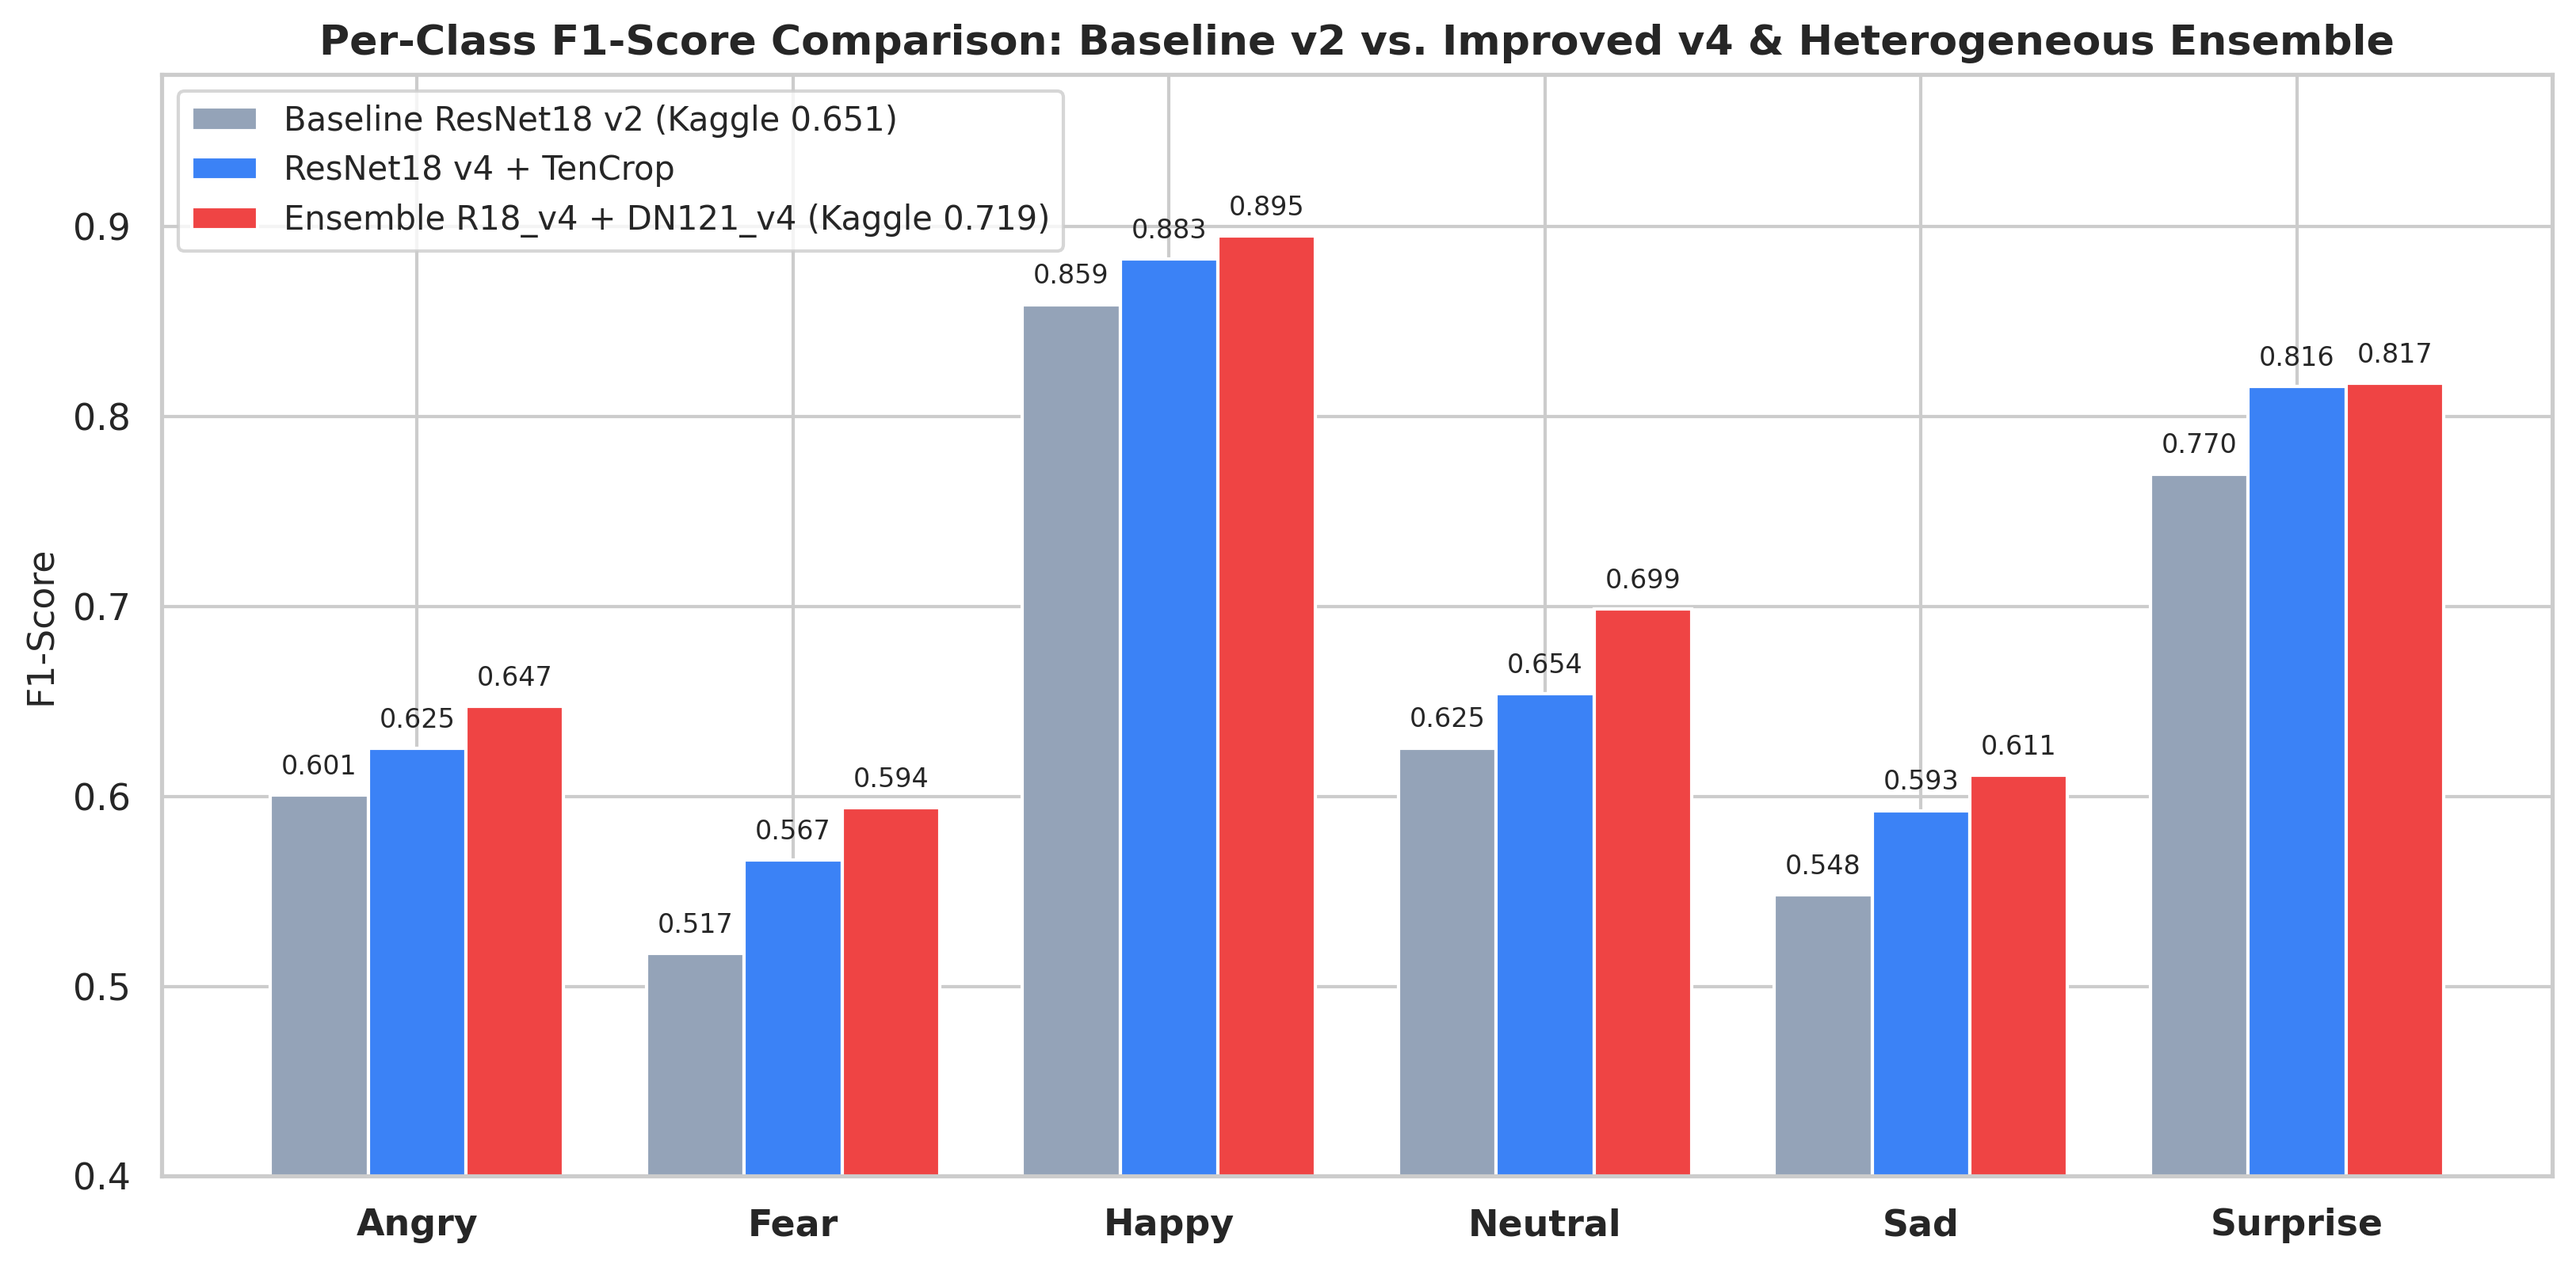
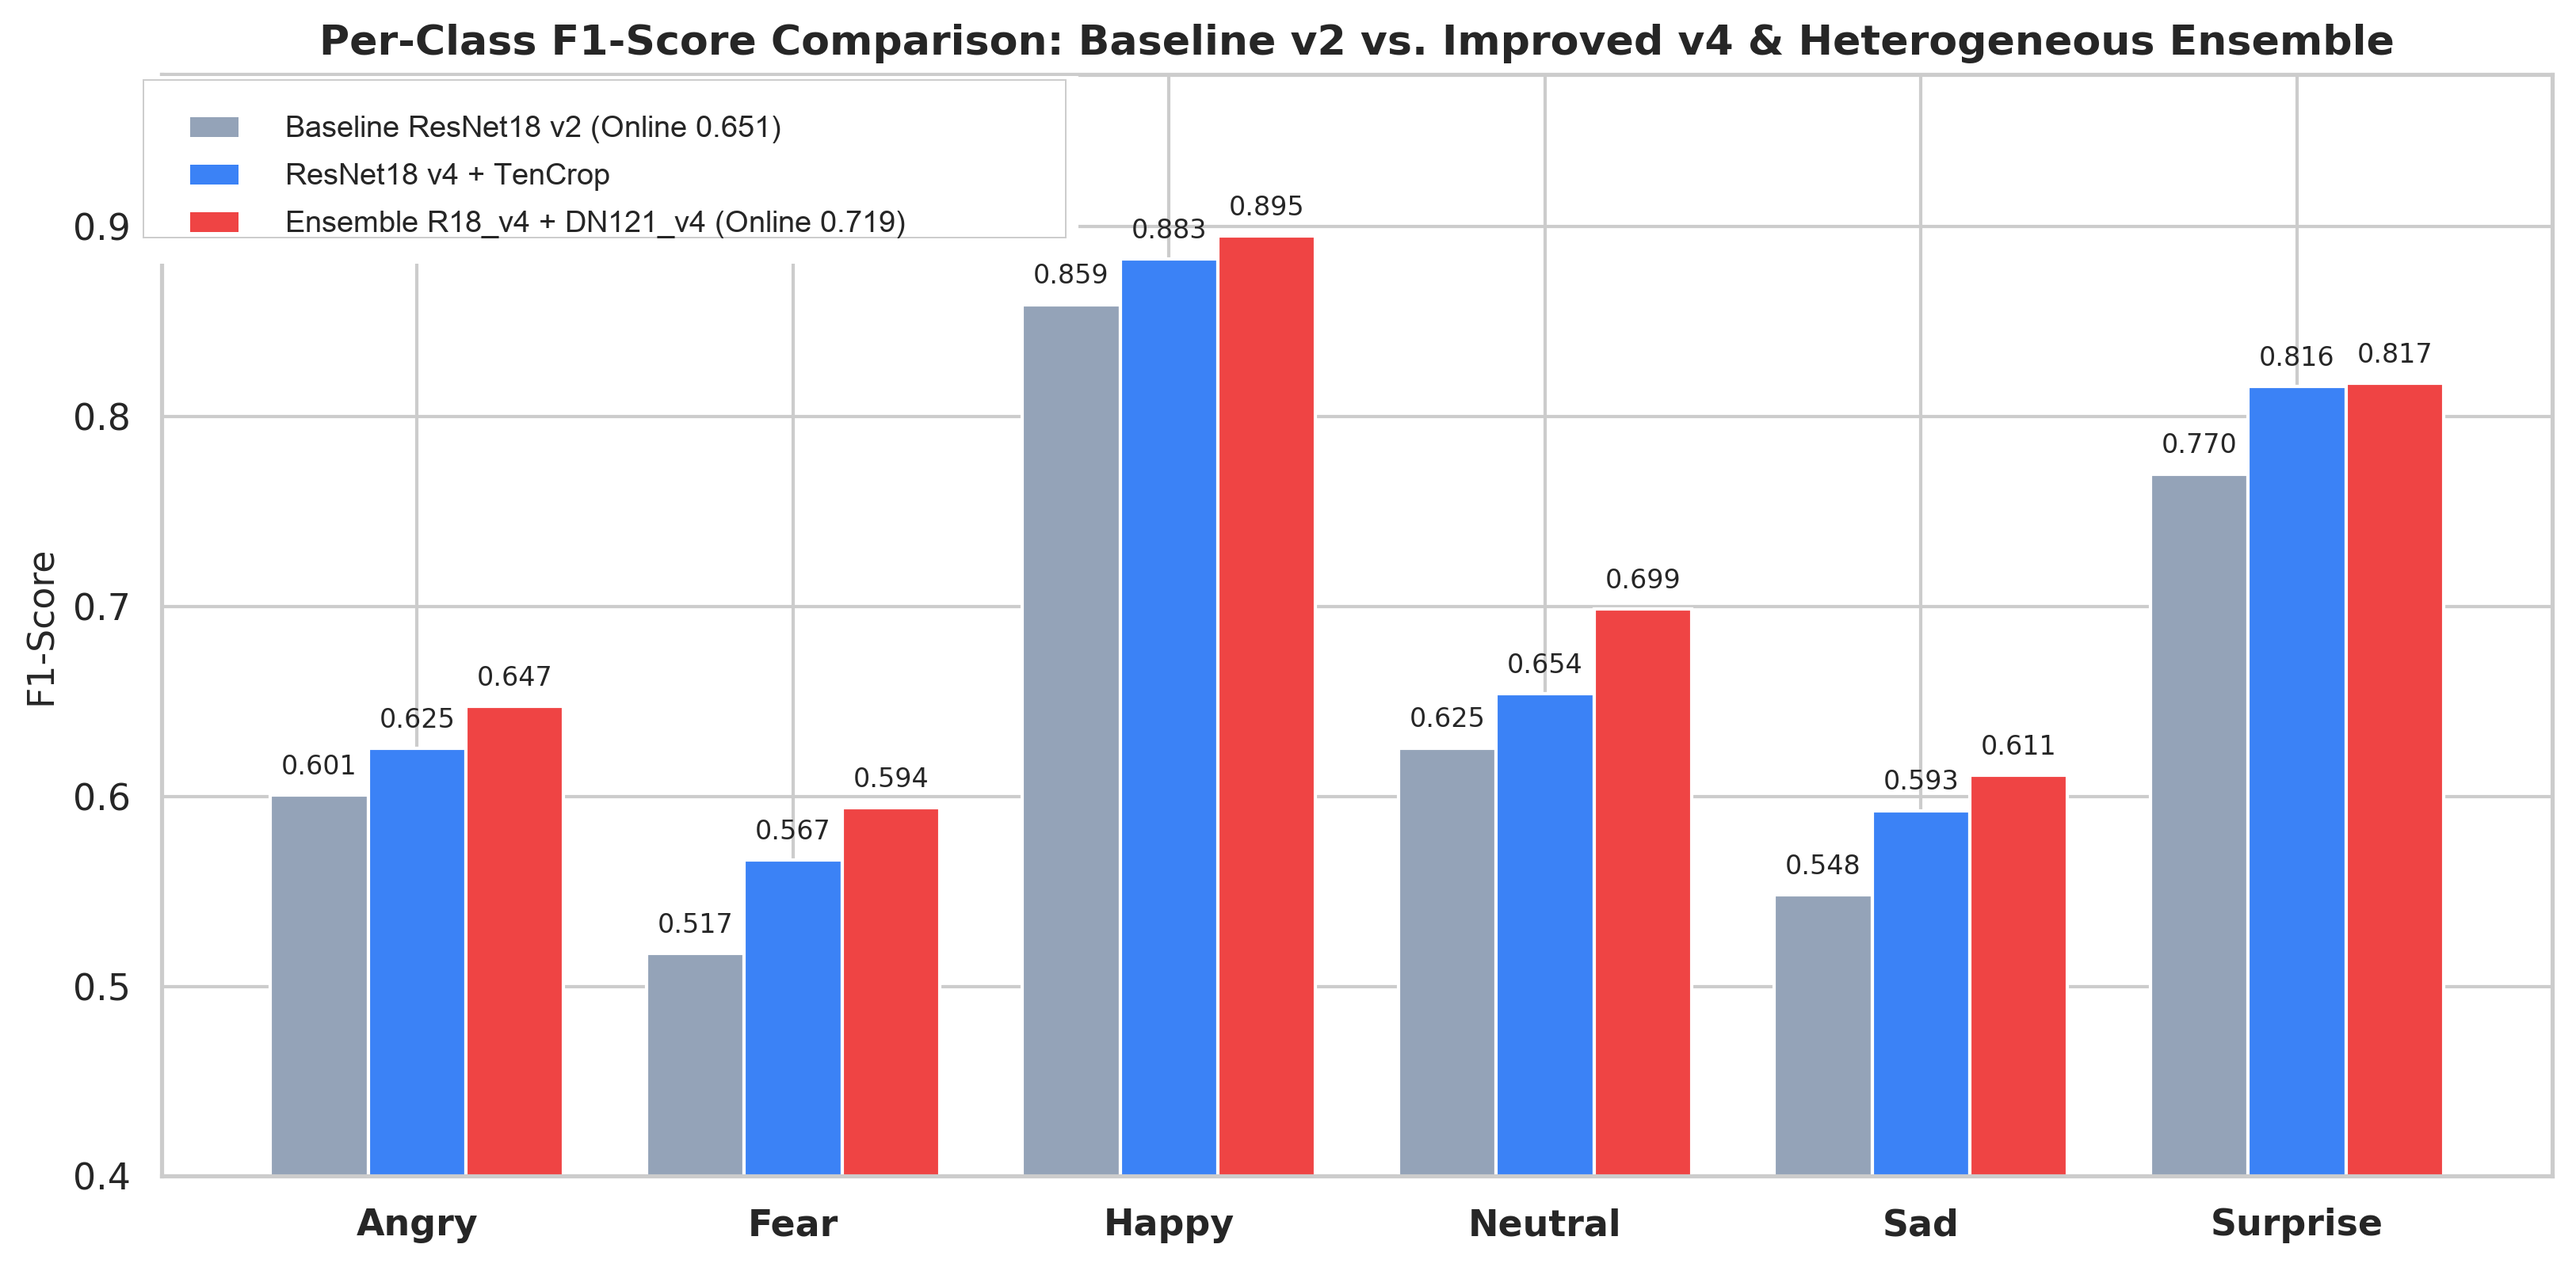
统一图表中的成绩标注

Changed region(s): [[0.0621, 0.0625, 0.4349, 0.2188]]

diff --git a/02_fer2013/train_fer.py b/02_fer2013/train_fer.py
@@ -532,9 +532,9 @@ def export_analysis(history_df, r18_probs, dn121_probs, val_targets,
     x = np.arange(len(class_names))
     w_bar = 0.26
 
-    b1 = ax.bar(x - w_bar, per_class_df["Baseline_v2_F1"], w_bar, label="Baseline ResNet18 v2 (Kaggle 0.651)", color="#94a3b8")
+    b1 = ax.bar(x - w_bar, per_class_df["Baseline_v2_F1"], w_bar, label="Baseline ResNet18 v2 (Online 0.651)", color="#94a3b8")
     b2 = ax.bar(x, per_class_df["ResNet18_v4_F1"], w_bar, label="ResNet18 v4 + TenCrop", color="#3b82f6")
-    b3 = ax.bar(x + w_bar, per_class_df["Ensemble_F1"], w_bar, label="Ensemble R18_v4 + DN121_v4 (Kaggle 0.719)", color="#ef4444")
+    b3 = ax.bar(x + w_bar, per_class_df["Ensemble_F1"], w_bar, label="Ensemble R18_v4 + DN121_v4 (Online 0.719)", color="#ef4444")
 
     ax.set_ylim(0.40, 0.98)
     ax.set_xticks(x)
